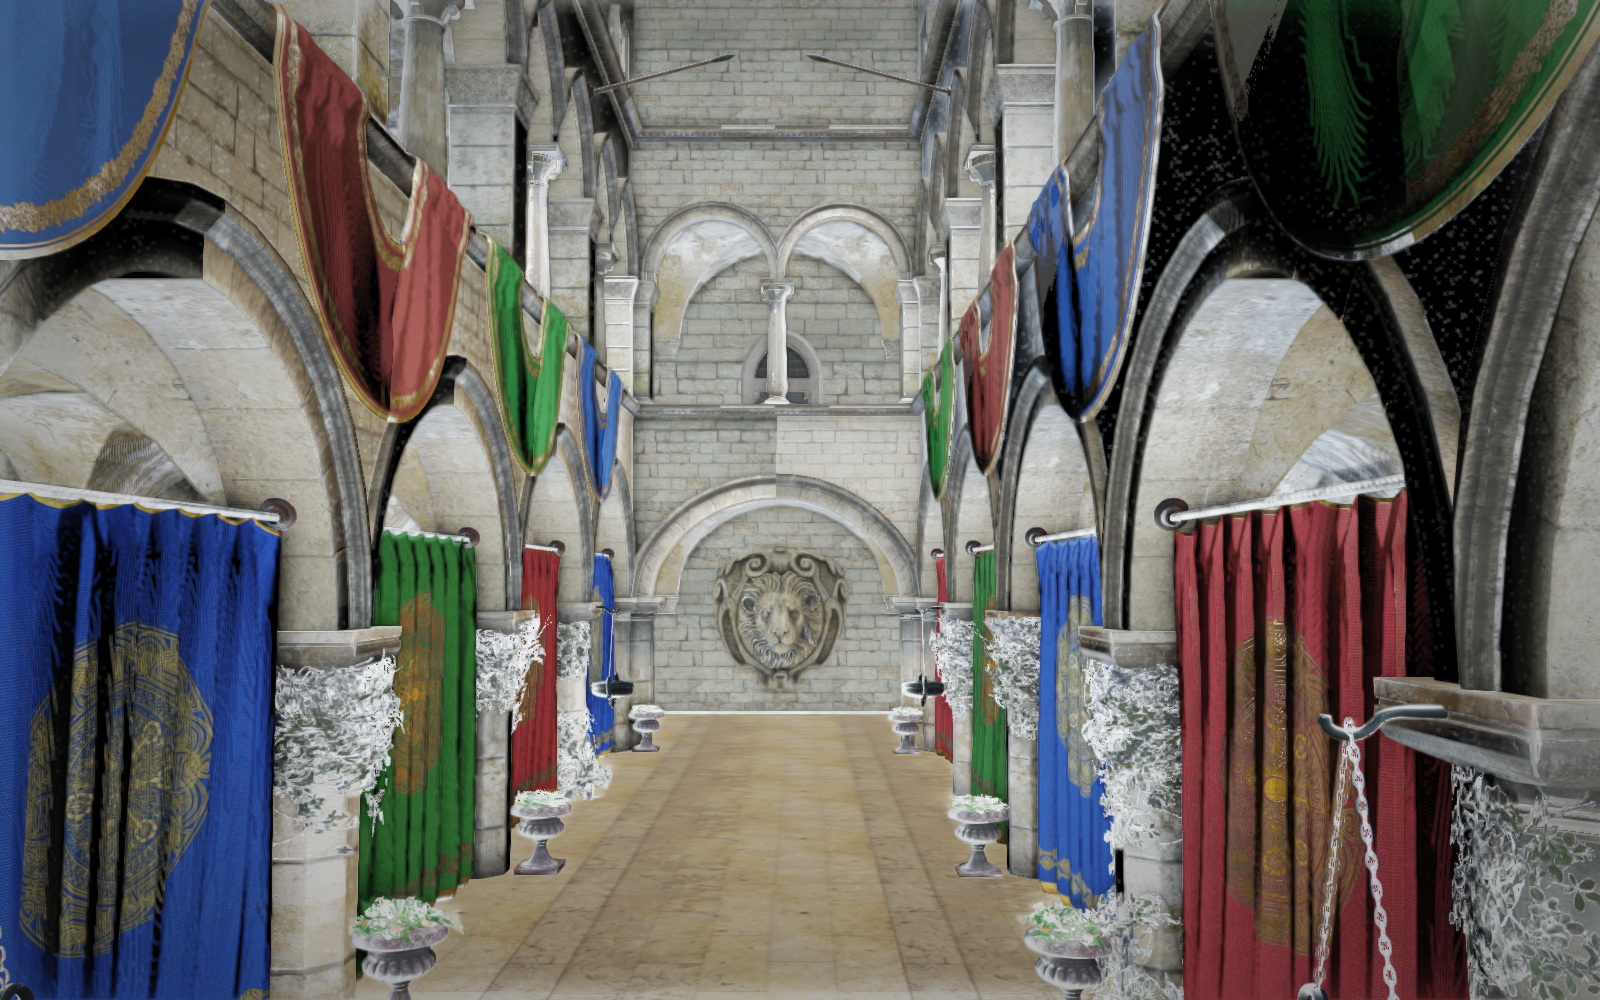
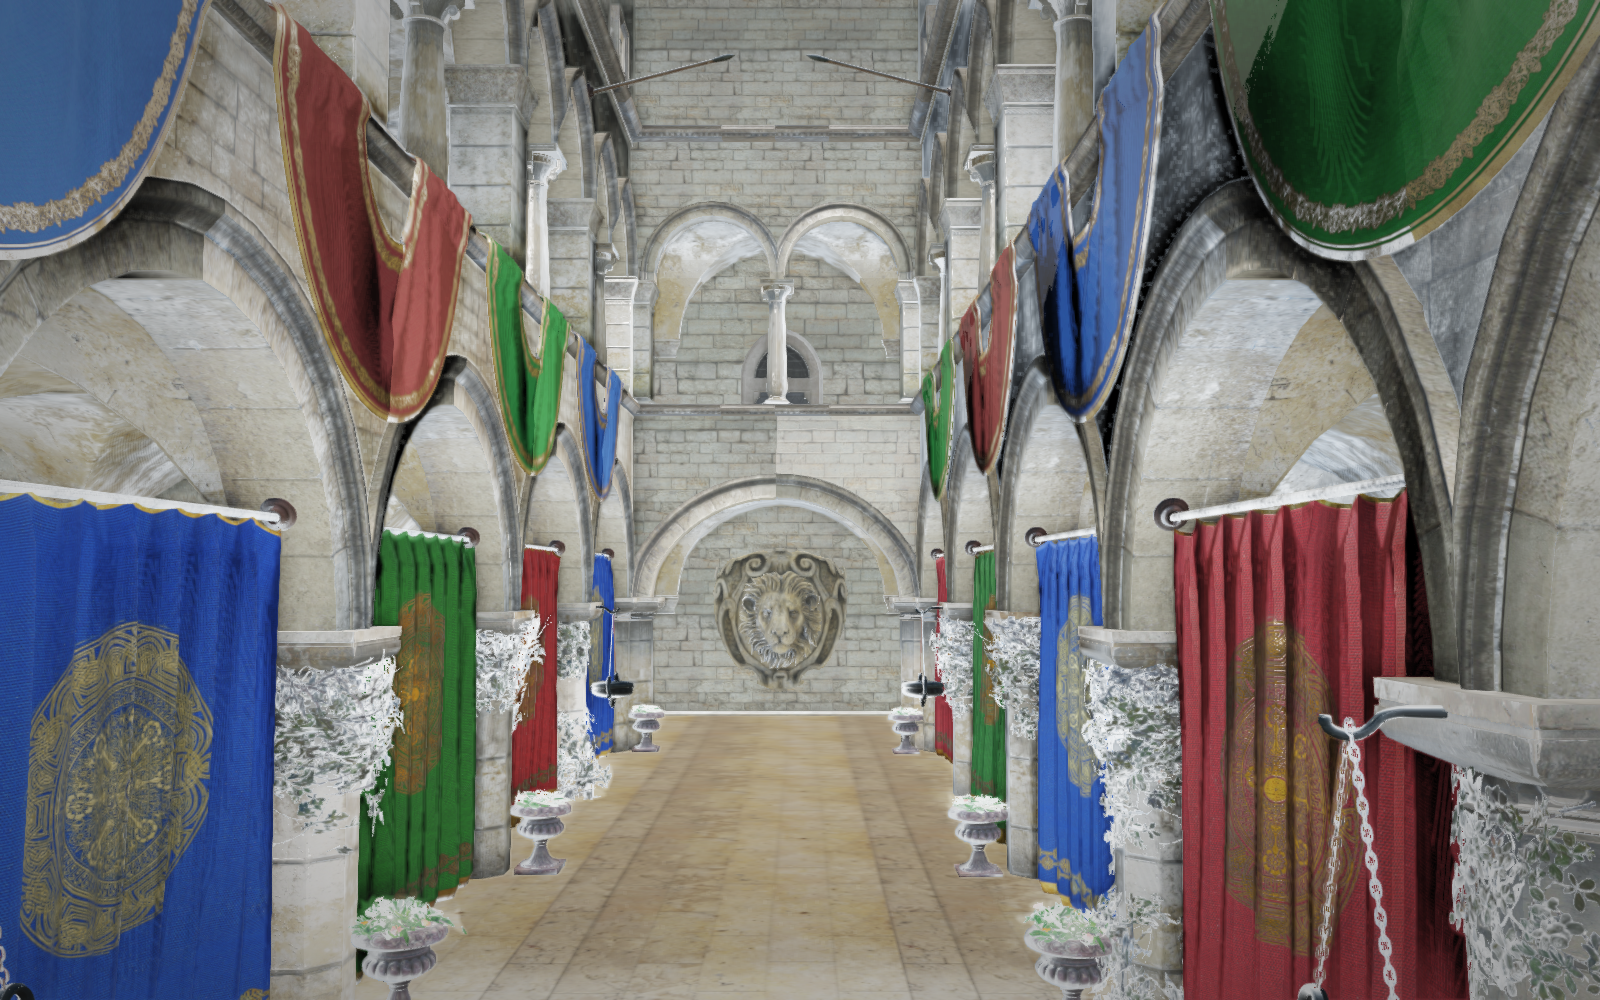
Read the occlusion pass at the scene's own scale
Sponza is thirty units across and the pass defaults to a half-unit radius
with a bias to match, so its floor and arch soffits occluded themselves into
black. The staging now sets ssao_radius and ssao_bias, which the engine
exposes on the camera.

diff --git a/scripts/stage.py b/scripts/stage.py
@@ -31,6 +31,9 @@ post = ["ssao", "bloom", "tonemap", "vignette", "fxaa"]
 bloom_threshold = 1.6
 bloom_intensity = 0.35
 vignette_amount = 0.32
+# Sponza is thirty units across, so the occlusion pass reads at its scale.
+ssao_radius = 0.6
+ssao_bias = 0.25
 
 [[nodes]]
 id = "n_env"
